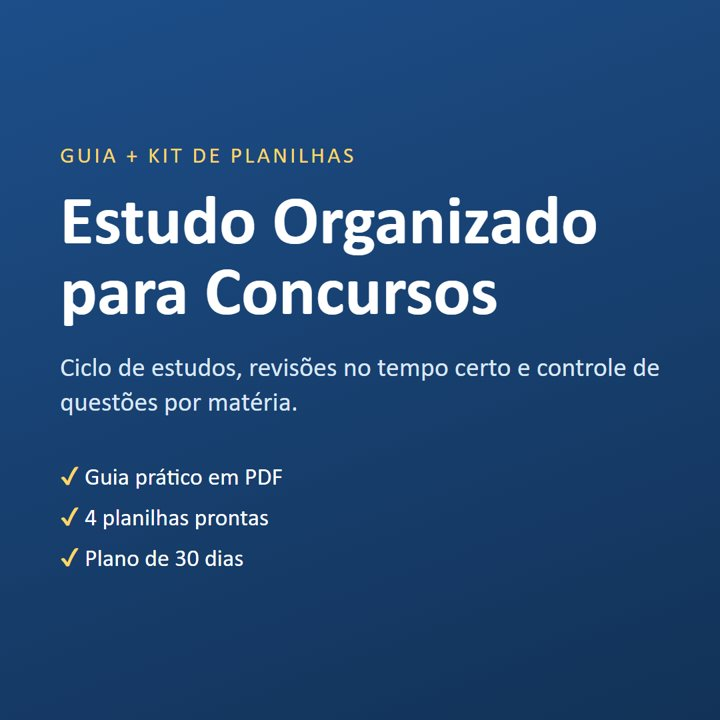
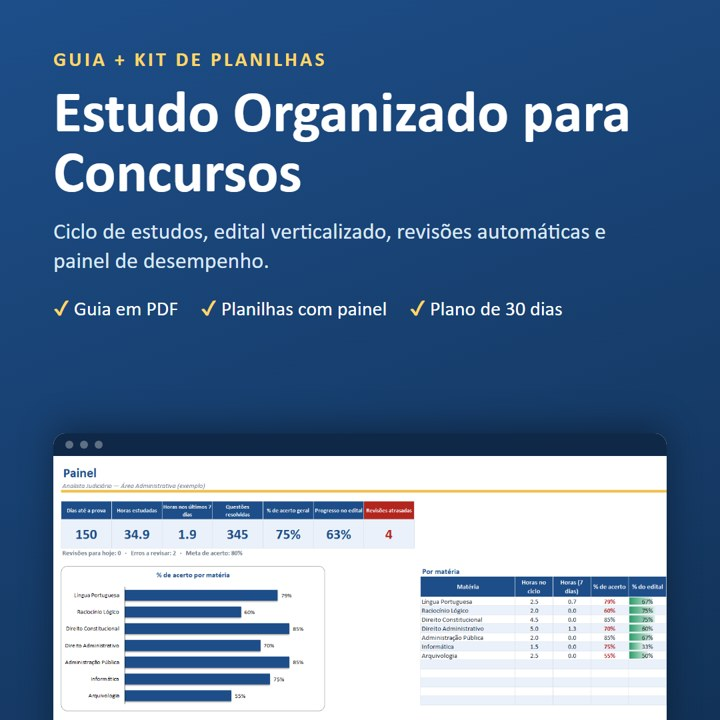
Atualiza pagina com o kit v2 (painel, edital, diario, simulados)

diff --git a/docs/index.html b/docs/index.html
@@ -4,7 +4,7 @@
 <meta charset="utf-8">
 <meta name="viewport" content="width=device-width,initial-scale=1">
 <title>Estudo Organizado para Concursos — Guia + Kit de Planilhas</title>
-<meta name="description" content="Monte seu ciclo de estudos, revise no tempo certo e acompanhe seus acertos por matéria. Guia prático em PDF + 4 planilhas prontas. R$ 37.">
+<meta name="description" content="Monte seu ciclo de estudos, revise no tempo certo e acompanhe seus acertos por matéria. Guia prático em PDF + kit de planilhas com painel. R$ 37.">
 <meta property="og:title" content="Estudo Organizado para Concursos — Guia + Kit de Planilhas">
 <meta property="og:description" content="Ciclo de estudos, revisões no tempo certo e controle de questões por matéria. R$ 37, com 7 dias de garantia.">
 <meta property="og:image" content="capa.jpg">
@@ -50,11 +50,11 @@ footer{padding:28px 0 40px;color:var(--muted);font-size:14px;border-top:1px soli
  <div>
   <div class="kick">Guia + kit de planilhas</div>
   <h1>Pare de estudar no escuro: organize seu estudo para concursos com um método simples</h1>
-  <p>Guia prático + 4 planilhas que fazem as contas por você: monte seu ciclo de estudos, revise no tempo certo e saiba, com números, onde está evoluindo.</p>
+  <p>Guia prático + kit de planilhas com painel que faz as contas por você: monte seu ciclo de estudos, revise no tempo certo e saiba, com números, onde está evoluindo.</p>
   <a class="btn" href="#comprar">Quero organizar meu estudo</a>
   <div class="price">R$ 37 · acesso imediato · 7 dias de garantia</div>
  </div>
- <img src="capa.jpg" alt="Capa do produto Estudo Organizado para Concursos: guia prático em PDF, 4 planilhas prontas e plano de 30 dias">
+ <img src="capa.jpg" alt="Capa do produto Estudo Organizado para Concursos: guia em PDF, planilhas com painel de desempenho e plano de 30 dias">
 </div></header>
 
 <main>
@@ -73,7 +73,7 @@ footer{padding:28px 0 40px;color:var(--muted);font-size:14px;border-top:1px soli
 <section style="background:#eef1f7"><div class="wrap">
  <h2>O que você recebe</h2>
  <div class="grid2">
-  <div class="card"><h3>1. Guia em PDF (17 páginas, 13 capítulos)</h3><ul>
+  <div class="card"><h3>1. Guia em PDF (19 páginas, 13 capítulos)</h3><ul>
    <li>Como desmontar o edital e calcular o peso real de cada matéria</li>
    <li>Ciclo de estudos: a alternativa ao cronograma rígido que não quebra quando você perde um dia</li>
    <li>A estrutura de uma sessão de estudo de 60 minutos</li>
@@ -82,12 +82,13 @@ footer{padding:28px 0 40px;color:var(--muted);font-size:14px;border-top:1px soli
    <li>Semanas-modelo para quem estuda 10h, 20h ou 35h por semana</li>
    <li>Simulados, reta final e plano de 30 dias para começar</li>
   </ul></div>
-  <div class="card"><h3>2. Kit com 4 planilhas</h3><ul>
-   <li><b>Ciclo:</b> informe matérias, questões, peso e seu nível, e ela calcula as horas de cada matéria.</li>
-   <li><b>Revisões:</b> datas de R1, R2 e R3 com aviso do que está atrasado ou vence hoje.</li>
-   <li><b>Questões:</b> % de acerto por matéria, calculado automaticamente.</li>
-   <li><b>Caderno de erros:</b> organizado por tipo de erro e com datas de revisão.</li>
-  </ul><p style="margin:12px 0 0;color:var(--muted);font-size:15px">Funciona no Excel, LibreOffice e Google Planilhas.</p></div>
+  <div class="card"><h3>2. Kit de planilhas com painel</h3><ul>
+   <li><b>Painel:</b> dias até a prova, horas estudadas, % de acerto, progresso no edital, revisões atrasadas e gráficos.</li>
+   <li><b>Ciclo de estudos:</b> informe questões, peso e seu nível, e ela calcula as horas de cada matéria.</li>
+   <li><b>Edital verticalizado:</b> cada tópico com situação: a estudar, estudado, dominado ou reforçar.</li>
+   <li><b>Diário com revisões automáticas:</b> R1, R2 e R3 com aviso do que vence hoje ou está atrasado.</li>
+   <li><b>Caderno de erros e simulados:</b> com gráfico de evolução e comparação com a nota de corte.</li>
+  </ul><p style="margin:12px 0 0;color:var(--muted);font-size:15px">Duas versões: exemplo preenchido e em branco. Funciona no Excel, LibreOffice e Google Planilhas.</p></div>
  </div>
 </div></section>
 
